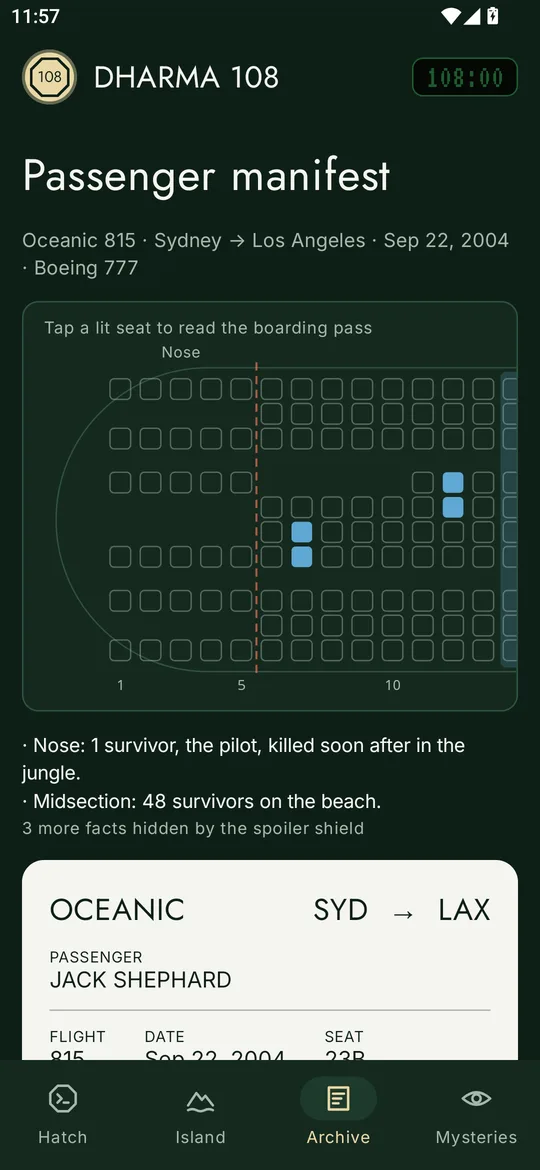
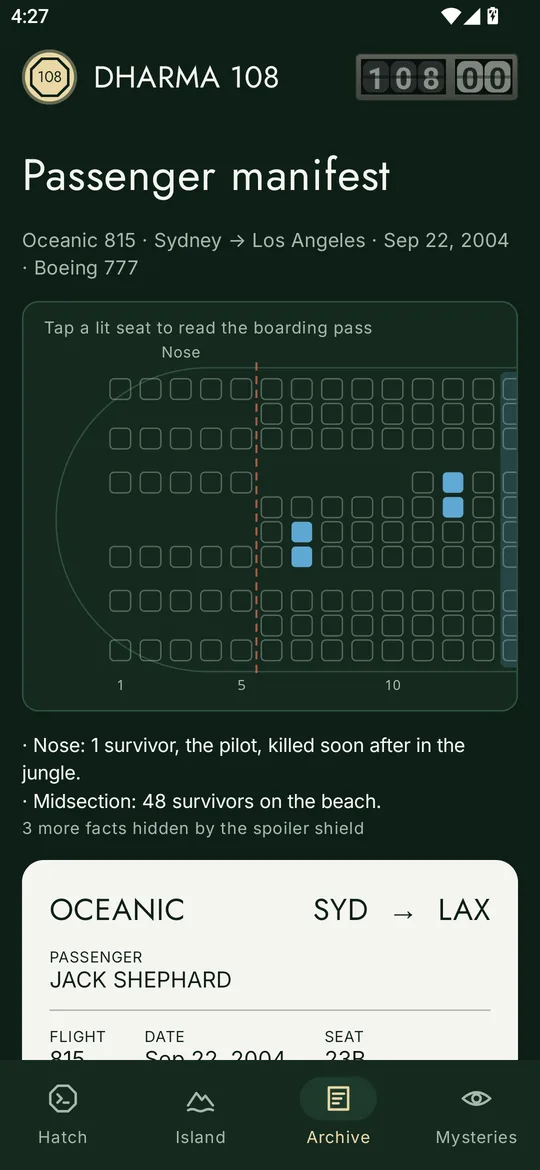
Fresh screenshots: the real mini counter, nights by weekday; all 121 episodes

Changed region(s): [[0.6519, 0.0308, 0.9778, 0.0923], [0.0296, 0.0, 0.1185, 0.0308]]

diff --git a/index.html b/index.html
@@ -85,7 +85,7 @@
   <figure><img src="screenshots/01-boarding.webp" alt="Carta d'imbarco del volo Oceanic 815 al primo avvio" loading="lazy"><figcaption>Carta d'imbarco<span>Boarding pass</span></figcaption></figure>
   <figure><img src="screenshots/02-crash.webp" alt="Lo schianto del volo 815" loading="lazy"><figcaption>Lo schianto<span>The crash</span></figcaption></figure>
   <figure><img src="screenshots/03-jungle.webp" alt="Risveglio nella giungla" loading="lazy"><figcaption>Risveglio nella giungla<span>Waking up in the jungle</span></figcaption></figure>
-  <figure><img src="screenshots/04-swan.webp" alt="Il contatore a palette e il computer della Stazione Cigno con la tastiera" loading="lazy"><figcaption>Il timer del Cigno<span>The Swan timer</span></figcaption></figure>
+  <figure><img src="screenshots/04-swan.webp" alt="Il contatore a palette e il computer della Stazione Cigno con la tastiera; in alto lo stesso contatore in piccolo" loading="lazy"><figcaption>Il timer del Cigno<span>The Swan timer</span></figcaption></figure>
   <figure><img src="screenshots/05-guide.webp" alt="Guida agli episodi con i titoli nascosti dallo scudo anti-spoiler" loading="lazy"><figcaption>Guida e scudo anti-spoiler<span>Episode guide &amp; spoiler shield</span></figcaption></figure>
   <figure><img src="screenshots/06-manifest.webp" alt="Mappa dei posti del Boeing 777 dell'Oceanic 815" loading="lazy"><figcaption>Manifesto dell'815<span>Flight 815 manifest</span></figcaption></figure>
   <figure><img src="screenshots/07-island.webp" alt="La sezione Isola con le stazioni DHARMA" loading="lazy"><figcaption>L'Isola<span>The Island</span></figcaption></figure>
@@ -93,7 +93,7 @@
   <figure><img src="screenshots/09-map.webp" alt="Mappa dell'isola disegnata in vettoriale" loading="lazy"><figcaption>Mappa dell'isola<span>Island map</span></figcaption></figure>
   <figure><img src="screenshots/10-numbers.webp" alt="I sei Numeri su tessere a palette" loading="lazy"><figcaption>I Numeri<span>The Numbers</span></figcaption></figure>
   <figure><img src="screenshots/11-profile.webp" alt="Profilo di un membro della DHARMA Initiative" loading="lazy"><figcaption>Profilo DHARMA<span>DHARMA profile</span></figcaption></figure>
-  <figure><img src="screenshots/12-night.webp" alt="Le impostazioni del profilo: pausa notturna del Cigno e modalità spoiler" loading="lazy"><figcaption>Notte e spoiler<span>Night saver &amp; spoiler mode</span></figcaption></figure>
+  <figure><img src="screenshots/12-night.webp" alt="Il salva streak notturno con orari diversi per ogni notte della settimana" loading="lazy"><figcaption>Salva streak notturno<span>Night streak saver</span></figcaption></figure>
 </div>
 
 <main class="wrap">
@@ -103,12 +103,13 @@
       <div class="card">
         <h3>La Botola</h3>
         <p>Un countdown vero di 108 minuti, con allarmi che suonano anche a telefono bloccato, la
-        tastiera retrò, il contatore split-flap, il registro dei turni da stampare, i lockdown, la
-        pausa notturna che salva la serie di codici, un widget e un salvaschermo.</p>
+        tastiera retrò, il contatore split-flap (anche in piccolo in ogni sezione), il registro dei
+        turni da stampare, i lockdown, la pausa notturna che salva la serie di codici (anche notte per
+        notte), tre livelli di suono, un widget disegnato come il contatore e un salvaschermo.</p>
       </div>
       <div class="card">
         <h3>L'Archivio</h3>
-        <p>Guida agli episodi delle stagioni 1–4 con trame scritte da noi, tracker del rewatch,
+        <p>Guida a tutti i 121 episodi, dalla stagione 1 alla 6, con trame scritte da noi, tracker del rewatch,
         manifesto dell'Oceanic 815, timeline e ricerca. Lo scudo anti-spoiler nasconde tutto quello
         che non hai ancora visto.</p>
       </div>
